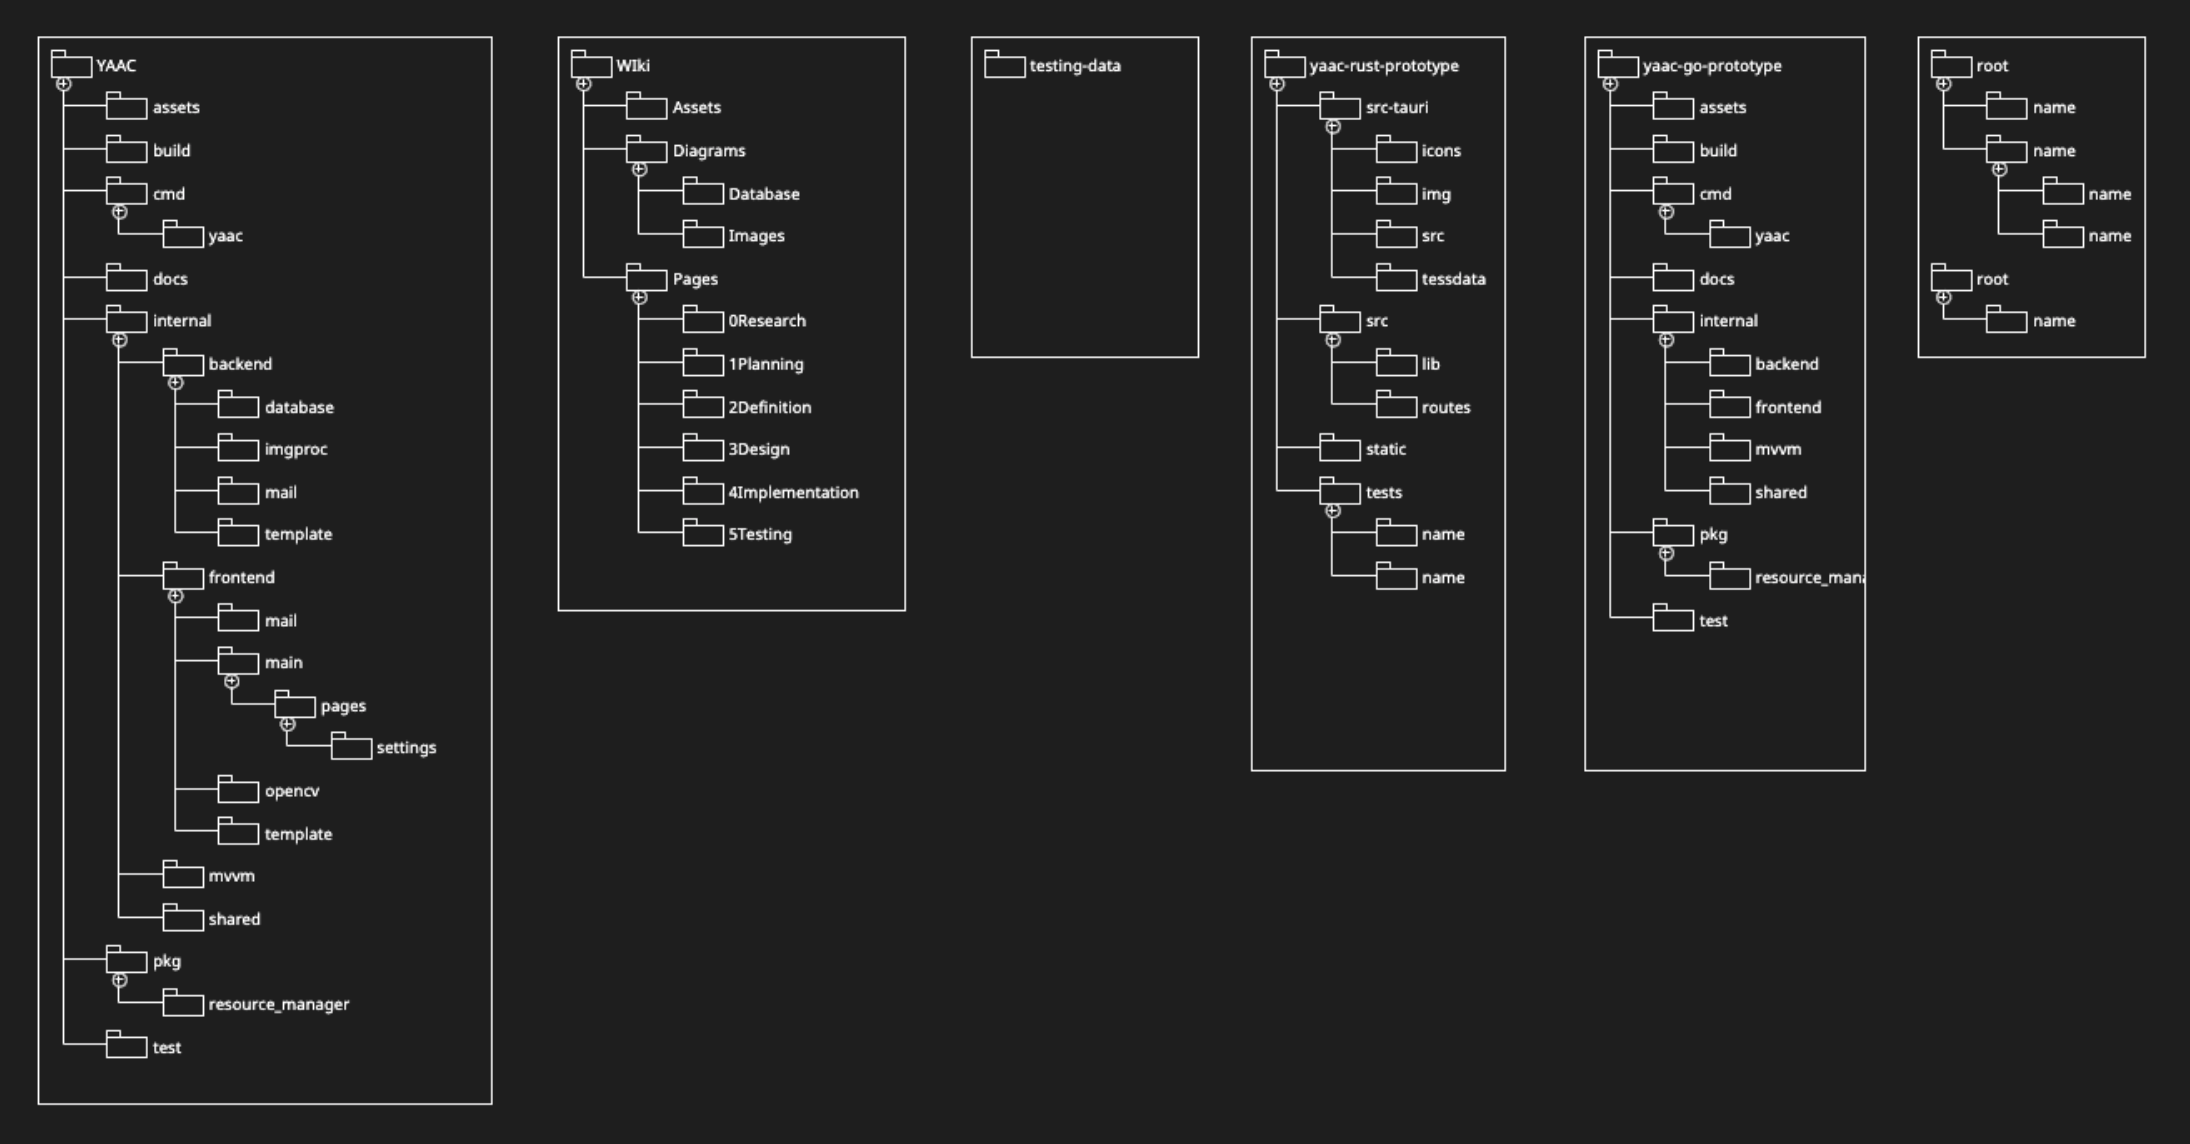
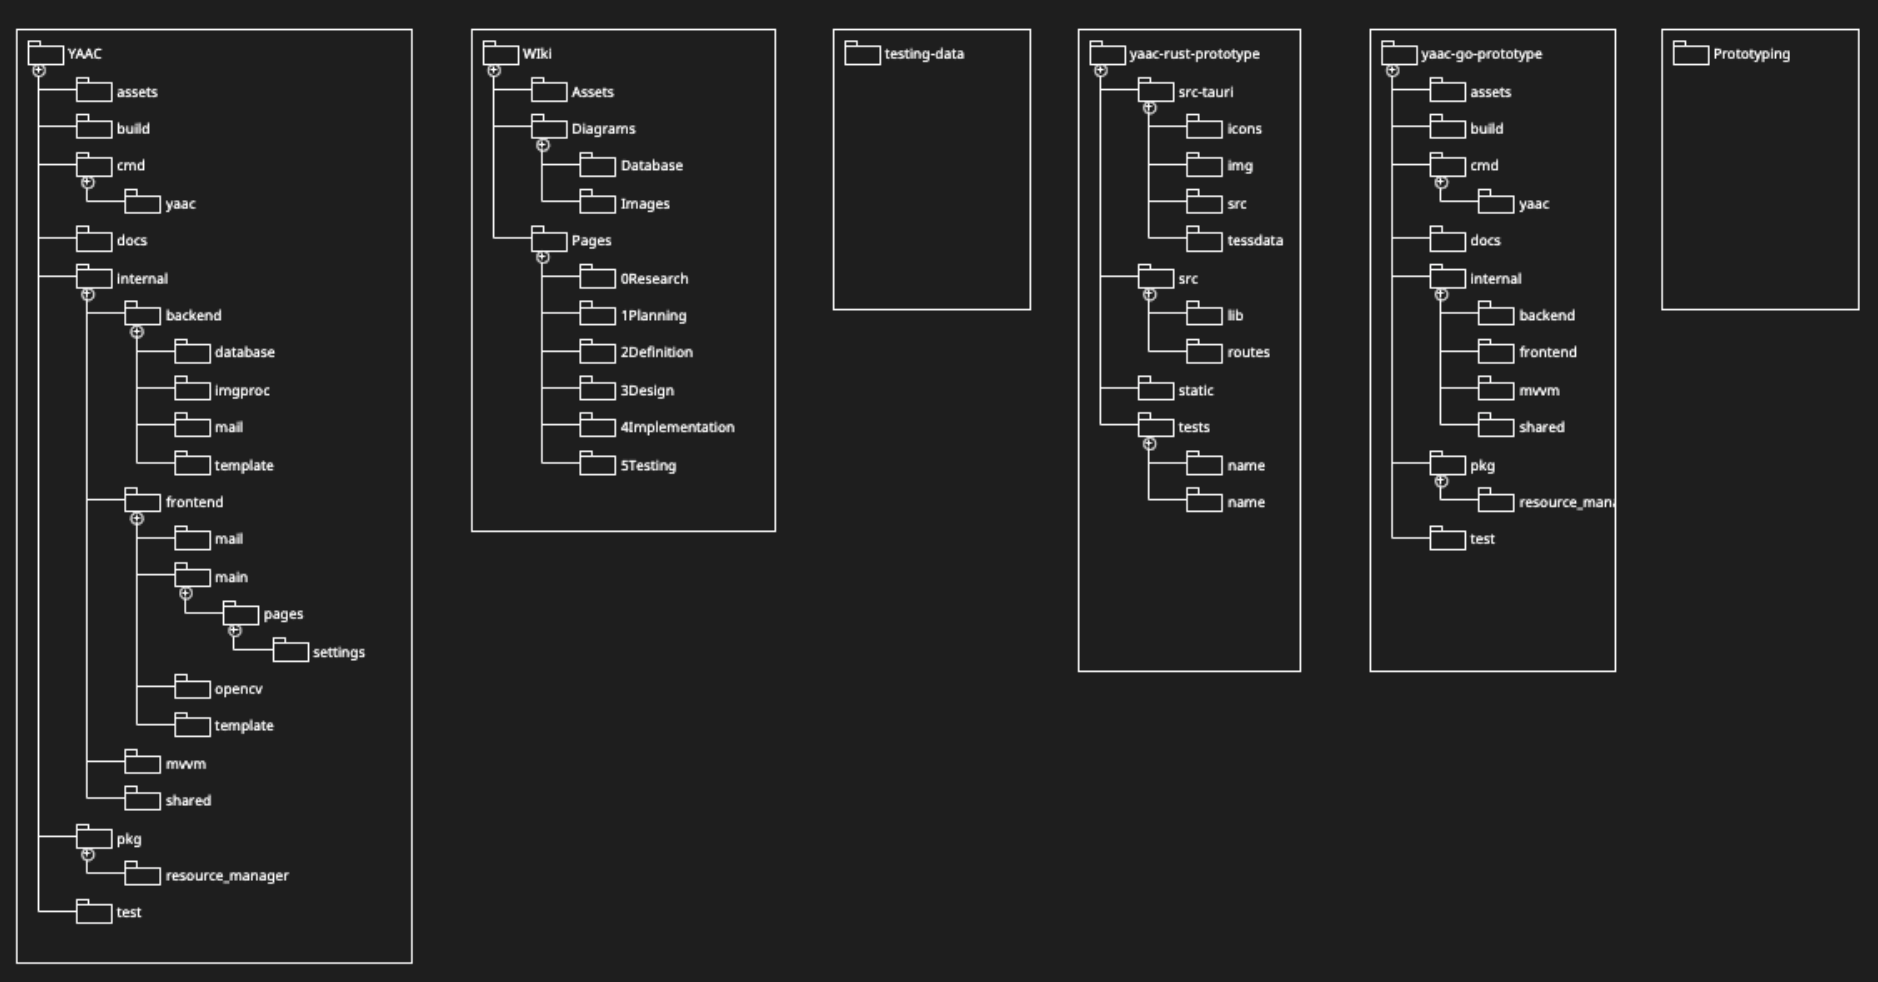
fixed mistake in project structure

Changed region(s): [[0.4015, 0.0305, 1.0, 0.7026], [0.0, 0.0305, 0.4324, 1.0]]

diff --git a/Pages/2Definition/2.1.0FunctionalSpecifications.md b/Pages/2Definition/2.1.0FunctionalSpecifications.md
@@ -94,6 +94,15 @@ This should be structured according to the respective phases of the development 
 
 As mentioned above, the project uses Git for version management, and the service GitHub is used as location to store the files at. As result, the source code of the application can be managed and its development can be tracked clearly. 
 
+The git repository is linked [here](https://github.com/DHBW-SE-2023/YAAC).
+
+The project YAAC is also part of the organization **DHBW-SE-2023** which includes multiple repositories concerning YAAC such as different prototypes or the Wiki. 
+The organization is linked [here](https://github.com/DHBW-SE-2023).
+
+The structure of the organization with the various repositories is described in the following diagram.
+
+![Project Structure](/Diagrams/Images/ProjectStructure.png)
+
 
 ### 5.2.3 Project conventions
 
